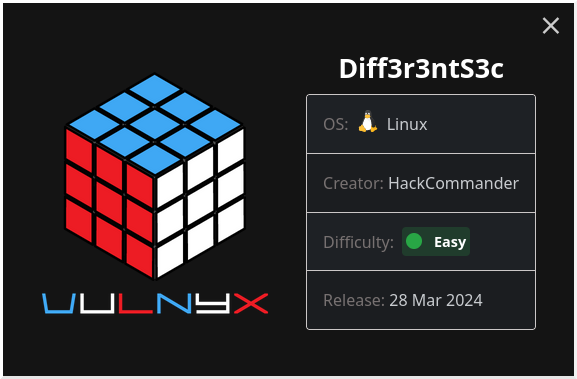
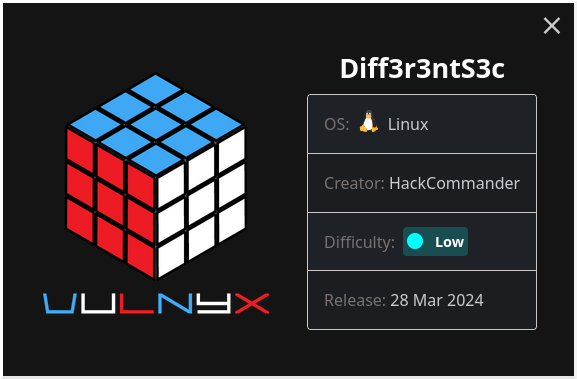
Added some corrections to my writeups about HackingStation and Diff3r3ntS3c.

diff --git a/_site/posts/2024/04/08/vulnyx-diff3r3nts3c/index.html b/_site/posts/2024/04/08/vulnyx-diff3r3nts3c/index.html
@@ -465,7 +465,7 @@
   </li>
 </ul>
 
-<p style="text-align:center;"><img src="/assets/images/2024-03-31-vulnyx-hackingstation/box-info.png" style="width: 750px;"></p>
+<p style="text-align:center;"><img src="/assets/images/2024-04-08-vulnyx-diff3r3nts3c/box-info.png" style="width: 750px;"></p>
 
 <p>In this post we are going to see the writeup of the machine Diff3r3ntS3c from <a href="https://vulnyx.com/">VulNyx</a>. It’s an easy machine created by <a href="https://hackcommander.github.io/">HackCommander</a> (yeah, it’s me again <img class="emoji" title=":blush:" alt=":blush:" src="https://github.githubassets.com/images/icons/emoji/unicode/1f60a.png" height="20" width="20">) especially designed for beginners. We are going to get access to the machine through an arbitrary file upload in a web form and then to escalate privileges through a cronjob executed as root using a script editable by any user.</p>
 

diff --git a/_posts/2024-04-08-vulnyx-diff3r3nts3c.md b/_posts/2024-04-08-vulnyx-diff3r3nts3c.md
@@ -34,9 +34,9 @@ tags:
   - [3.2. Getting a shell as root](#section-id-3-2)
   - [3.3. Why does this privilege escalation via cronjob exist?](#section-id-3-3)
 
-<p style="text-align:center;"><img src="/assets/images/2024-03-31-vulnyx-hackingstation/box-info.png" style="width: 750px;"></p>
+<p style="text-align:center;"><img src="/assets/images/2024-04-08-vulnyx-diff3r3nts3c/box-info.png" style="width: 750px;"></p>
 
-In this post we are going to see the writeup of the machine Diff3r3ntS3c from [VulNyx](https://vulnyx.com/). It's an easy machine created by [HackCommander](https://hackcommander.github.io/) (yeah, it's me again :blush:) especially designed for beginners. We are going to get access to the machine through an arbitrary file upload in a web form and then to escalate privileges through a cronjob executed as root using a script editable by any user.
+In this post we are going to see the writeup of the machine Diff3r3ntS3c from [VulNyx](https://vulnyx.com/). It's a low machine created by [HackCommander](https://hackcommander.github.io/) (yeah, it's me again :blush:) especially designed for beginners. We are going to get access to the machine through an arbitrary file upload in a web form and then to escalate privileges through a cronjob executed as root using a script editable by any user.
 
 <div id='section-id-1'/>
 ## 1. Port and service scanning
@@ -353,7 +353,7 @@ the following response is obtained
 
 ![](/assets/images/2024-04-08-vulnyx-diff3r3nts3c/command-injection.png)
 
-The presence of this vulnerability does not affect the difficulty of the machine as this method is more difficult to find and exploit than arbitrary file uploading. This is why the machine remains easy.
+The presence of this vulnerability does not affect the difficulty of the machine as this method is more difficult to find and exploit than arbitrary file uploading. This is why the machine remains low.
 
 <div id='section-id-3'/>
 ## 3. Privilege escalation

diff --git a/_posts/2024-03-31-vulnyx-hackingstation.md b/_posts/2024-03-31-vulnyx-hackingstation.md
@@ -33,7 +33,7 @@ tags:
 
 <p style="text-align:center;"><img src="/assets/images/2024-03-31-vulnyx-hackingstation/box-info.png" style="width: 750px;"></p>
 
-In this post we are going to see the writeup of the machine HackingStation from [VulNyx](https://vulnyx.com/). It's an easy machine created by [HackCommander](https://hackcommander.github.io/) (yeah, it's me :blush:) especially designed for beginners. We are going to get access to the machine through a command injection in a web and then to escalate privileges through the nmap binary, which is allowed to run as superuser without password.
+In this post we are going to see the writeup of the machine HackingStation from [VulNyx](https://vulnyx.com/). It's a low machine created by [HackCommander](https://hackcommander.github.io/) (yeah, it's me :blush:) especially designed for beginners. We are going to get access to the machine through a command injection in a web and then to escalate privileges through the nmap binary, which is allowed to run as superuser without password.
 
 <div id='section-id-1'/>
 ## 1. Port and service scanning
